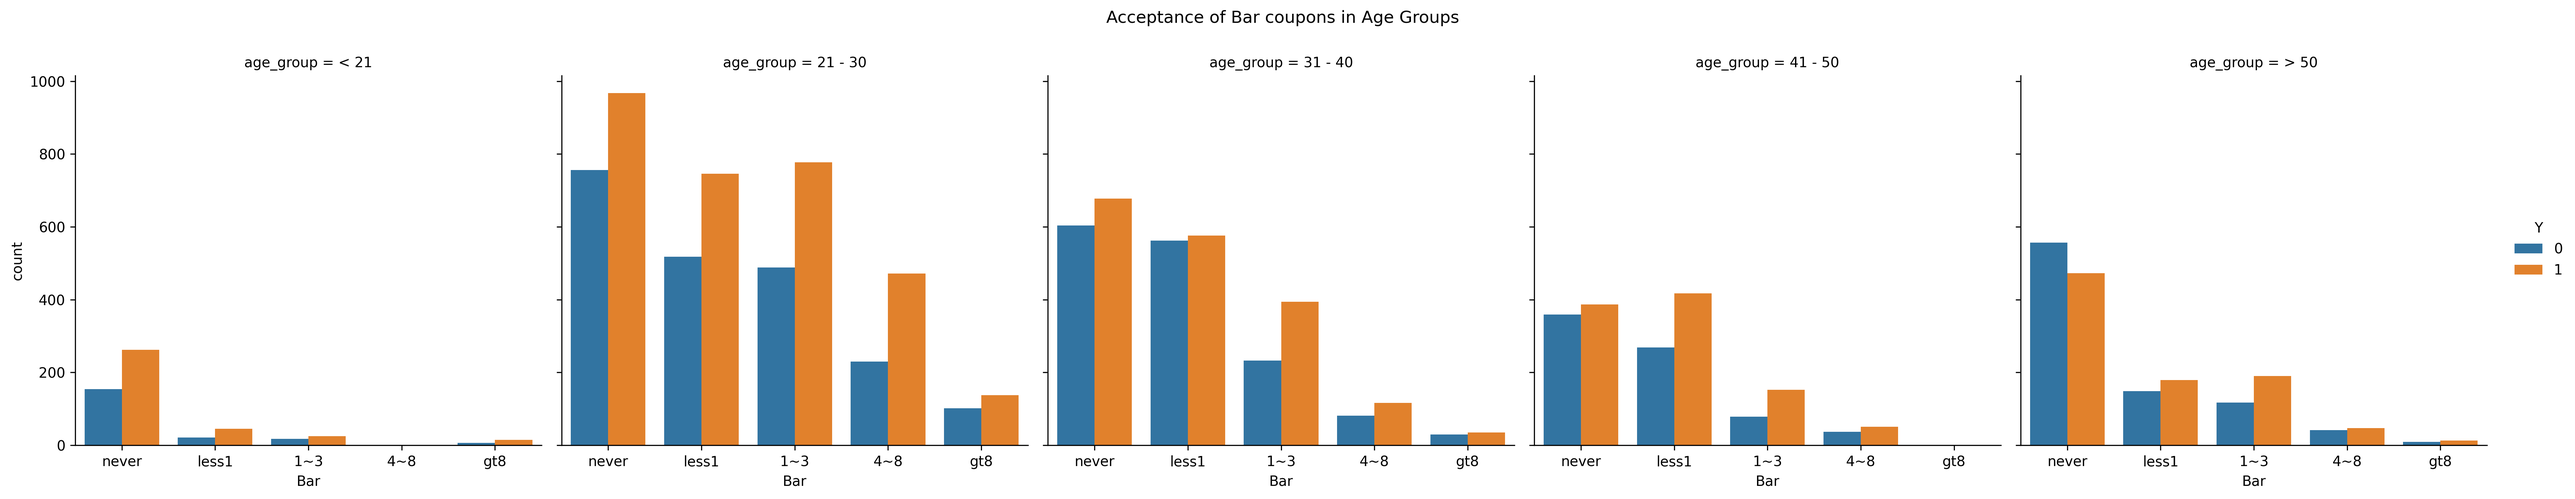
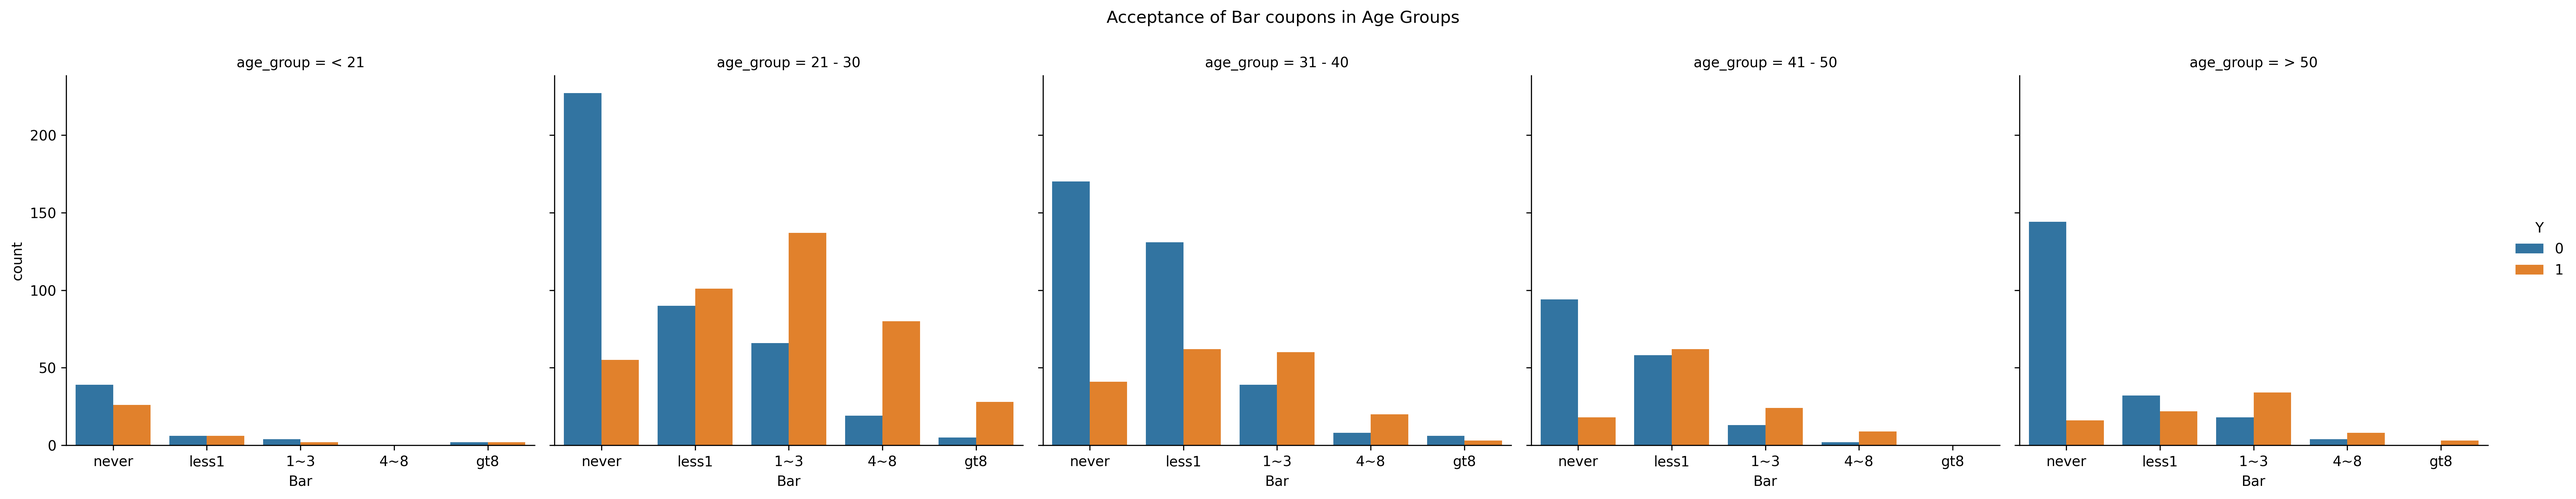
Draft commit

diff --git a/README.md b/README.md
@@ -68,13 +68,16 @@ Exploring the acceptance rate for Bar coupons based on user's frequency of visit
 	- irrespective of whether they are > 25 years, or have non kid as a passenger or if they are < 30 years
 	- just going to the bar > once/month increases the odds of accepting the coupon
 
-### Exploring all coupn types for age ranges
-Plotting the coupon types seperately for different age groups:
+### Exploring all coupon types for age ranges and visit frequency
+Plotting the coupon types seperately for different age groups and visit frequency:
 ![Bar based acceptance](./images/coupon_acceptance_Bar.png)
-![CoffeeHouse based acceptance](./images/coupon_acceptance_CoffeeHouse.png)
-![CarryAway based acceptance](./images/coupon_acceptance_CarryAway.png)
-![RestaurantLessThan20 based acceptance](./images/coupon_acceptance_RestaurantLessThan20.png)
-![Restaurant20To50 based acceptance](./images/coupon_acceptance_Restaurant20To50.png)
+![Coffee House based acceptance](./images/coupon_acceptance_Coffee House.png)
+![Carry out & Take away based acceptance](./images/coupon_acceptance_Carry out & Take away.png)
+![RestaurantLessThan20 based acceptance](./images/coupon_acceptance_Restaurant(_20).png)
+![Restaurant20To50 based acceptance](./images/coupon_acceptance_Restaurant(20-50).png)
 
-
+- *21-30* has the most data points, followed by *31-40*
+- these two groups also have the highest acceptance-to-denial ratio meaning the odds of acceptance are much higher (particulalry in 21-40)
+- *CoffeeHouse, CarryOut and Cheap restaurants* have the highest acceptance rate for folks who visit 1-3 and 4-8
+- People who have never been to a *Bar or Coffee House* have the highest denial ratio for *21-30 and 31-40* age groups
 
